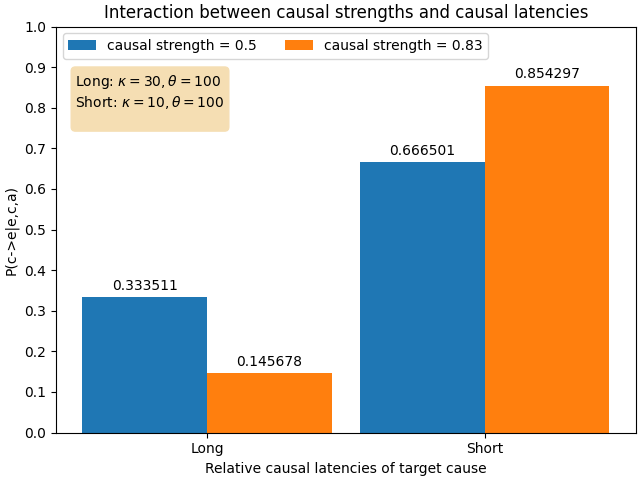
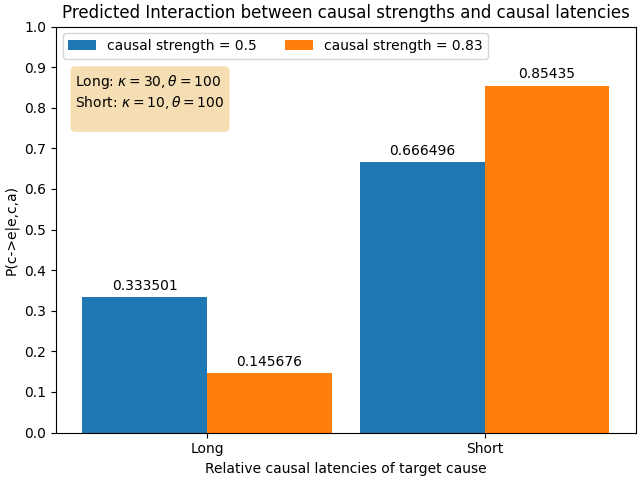
exp3 clean and results

diff --git a/experimental_data/exp3.py b/experimental_data/exp3.py
@@ -1,0 +1,85 @@
+import pandas as pd
+import numpy as np
+import matplotlib.pyplot as plt
+import matplotlib.ticker as ticker
+from matplotlib.offsetbox import AnchoredText
+
+alphas = {
+        "c1": 0.01,
+        "c2": 0.25,
+        "c3": 0.5,
+        "c4": 0.75,
+        "c5": 0.99
+        }
+
+
+def plot_exp3(d):
+    conditions = ("Long", "Short")
+    causal_strengths = {
+        'causal strength = 0.5': (float(d["weak_long"]), float(d["weak_short"])),
+        'causal strength = 0.83': (float(d["strong_long"]), float(d["strong_short"])),
+    }
+    x = np.arange(len(conditions))  # the label locations
+    width = 0.45  # the width of the bars
+    multiplier = 0
+
+    fig, ax = plt.subplots(layout='constrained')
+
+    for s, val in causal_strengths.items():
+        offset = width * multiplier
+        rects = ax.bar(x + offset, val, width, label=s)
+        ax.bar_label(rects, padding=3)
+        multiplier += 1
+    title = "Experimental Interaction between causal strengths and causal latencies"
+    text1 = r'Long: $\kappa = 30, \theta = 100 $' + "\n"
+    text2 = r'Short: $\kappa = 10, \theta = 100$'+ "\n" 
+    props = dict(boxstyle='round', color="wheat")
+    ax.text(-0.25, 0.76, text1+text2, bbox=props)
+    ax.set_xlabel("Relative causal latencies of target cause")
+    ax.set_ylabel('P(c->e|e,c,a)')
+    ax.set_ylim(0, 1)
+    ax.set_title(title)
+    ax.yaxis.set_major_locator(ticker.MultipleLocator(0.1))
+    ax.set_xticks(x + 0.225, conditions)
+    ax.legend(loc='upper left', ncols=3)
+    plt.show()
+
+#Function to pass to apply
+#and then update rating
+def updateRating(row, *args):
+    a = row["Alpha"]
+    cond = args[0]
+    if a == alphas[cond]:
+        return row["Rating"]
+    return 1 - row["Rating"]
+
+def cleanData():
+    df = pd.read_csv("Data Exp 3/data_mainDV.txt", sep='\t')
+    df_weak = df[df["Power"] == 0.5] 
+    df_weak_short = df_weak[df_weak["GammaDiff"] == "S-F_1"]
+    df_weak_short["Rating"] = df_weak_short.apply(updateRating, axis=1, args=("c1",))
+    df_weak_long = df_weak[df_weak["GammaDiff"] == "F-S_1"]
+    df_weak_long["Rating"] = df_weak_long.apply(updateRating, axis=1, args=("c5",))
+    df_strong = df[df["Power"] == 0.83]
+    #data is mislabeled as "S-F_2", should be "S-F_1"
+    df_strong_short = df_strong[df_strong["GammaDiff"] == "S-F_2"]
+    df_strong_short["Rating"] = df_strong_short.apply(updateRating, axis=1, args=("c1",))
+    #data is mislabeled as "F-S_2", should be "F-S_1"
+    df_strong_long = df_strong[df_strong["GammaDiff"] == "F-S_2"]
+    df_strong_long["Rating"] = df_strong_long.apply(updateRating, axis=1, args=("c5",))
+    mean_weak_short = np.mean(df_weak_short["Rating"]) 
+    mean_weak_long = np.mean(df_weak_long["Rating"]) 
+    mean_strong_short = np.mean(df_strong_short["Rating"]) 
+    mean_strong_long = np.mean(df_strong_long["Rating"]) 
+    d_means = {
+            "weak_short": mean_weak_short,
+            "weak_long": mean_weak_long,
+            "strong_short": mean_strong_short,
+            "strong_long": mean_strong_long
+            }
+    return d_means
+
+if __name__ == "__main__":
+    means = cleanData()
+    plot_exp3(means)
+

diff --git a/experimental_data/exp2.py b/experimental_data/exp2.py
@@ -23,7 +23,7 @@ def plot_exp2(x, y):
     text4 = r'Condition4: $\kappa = 22, \theta = 100 $'+ "\n"
     text5 = r'Condition5: $\kappa = 30, \theta = 100 $'
     anchor = AnchoredText(text1+text2+text3+text4+text5, loc="upper right")
-    title = "Model predictions with alpha based on gamma distributions" 
+    title = "Human judgments of singular causation" 
     fig, ax = plt.subplots()
     ax.bar(x, y)
     ax.yaxis.set_major_locator(ticker.MultipleLocator(0.1))
@@ -43,7 +43,7 @@ def updateRating(row, *args):
     return 10 - row["Rating"]
 
 def cleanData():
-    df = pd.read_csv("sca2_data.txt", sep='\t')
+    df = pd.read_csv("Data Exp 2/sca2_data.txt", sep='\t')
     #update ratings based on alpha
     df_c1 = df[df["GammaDiff"] == "S-F_1"]
     df_c1["Rating"] = df_c1.apply(updateRating, axis=1, args=("c1",))

diff --git a/model/model.py b/model/model.py
@@ -40,7 +40,7 @@ def plot_exp3(d):
         rects = ax.bar(x + offset, val, width, label=s)
         ax.bar_label(rects, padding=3)
         multiplier += 1
-    title = "Interaction between causal strengths and causal latencies"
+    title = "Predicted Interaction between causal strengths and causal latencies"
     text1 = r'Long: $\kappa = 30, \theta = 100 $' + "\n"
     text2 = r'Short: $\kappa = 10, \theta = 100$'+ "\n" 
     props = dict(boxstyle='round', color="wheat")
